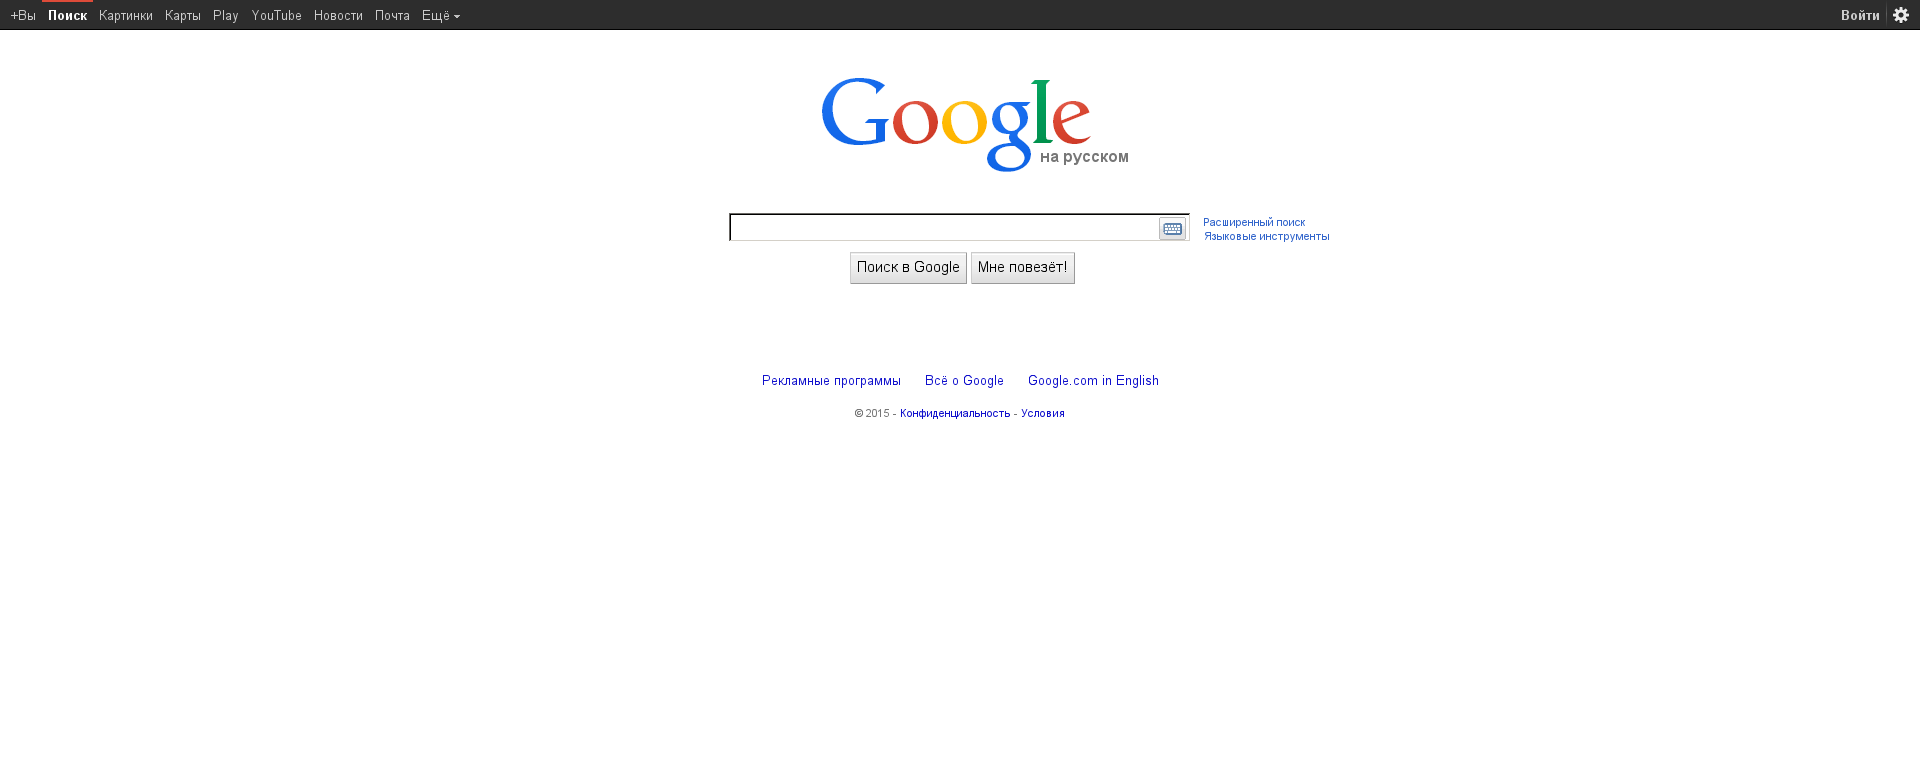
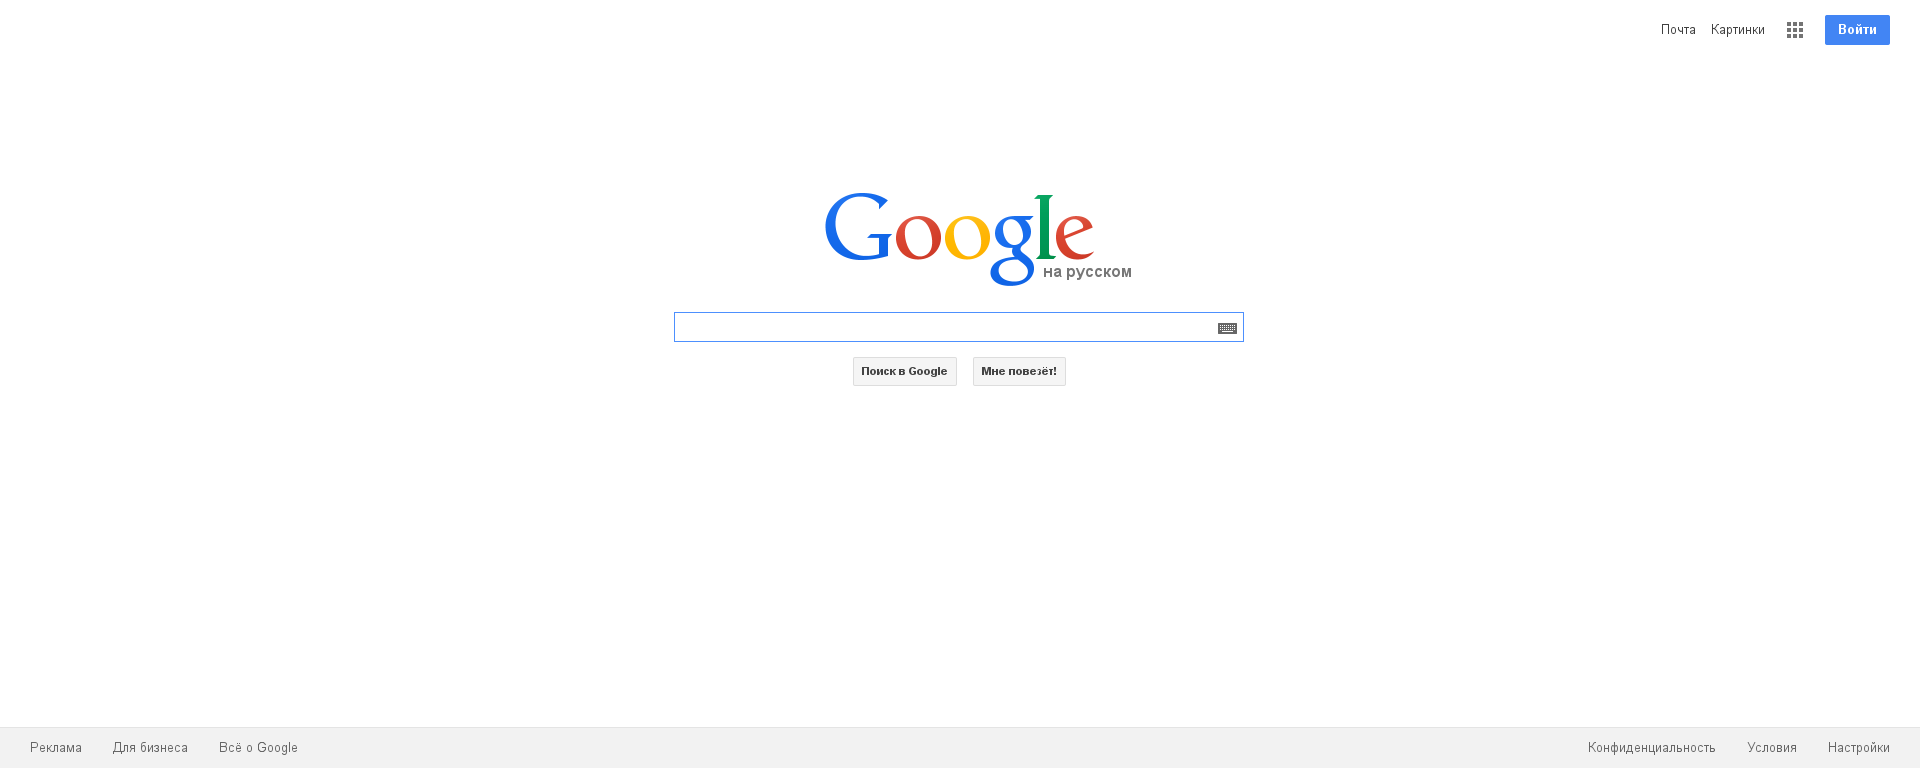
:rocket: fake useragent

diff --git a/selenium_base.py b/selenium_base.py
@@ -20,7 +20,8 @@ def vdisplay_test_browser(Browser, url, res, save_as, param):
 
 def no_vdisplay_test_browser(Browser, url, res, save_as, param):
     """ create rowser and save img """
-    browser = Browser(**param) if isinstance(param, dict) else Browser(param)
+    path, kwargs = param
+    browser = Browser(path, **kwargs)
     save_shot(url, res, browser, save_as)
     browser.quit()
 
@@ -46,17 +47,14 @@ def selenium_test_browser(name):
         # bin = dict(executable_path='bin/awesomium_v1.7.5_sdk_linux64/bin/awesomium_process')
         # test_browser(driver, name, bin, no_vdisplay_test_browser)
 
-    elif name == 'phantomjs':
+    elif 'phantomjs' in name:
+        from selenium.webdriver.common.desired_capabilities import DesiredCapabilities
+        dcap = dict(DesiredCapabilities.PHANTOMJS)
+        dcap['phantomjs.page.settings.userAgent'] = ('Mozilla/5.0 (X11; Linux x86_64) Gecko/20100101 Firefox/36.0')
+        param = dict(desired_capabilities=dcap)
         driver = webdriver.PhantomJS
-        path = 'bin/phantomjs-1.9.8-linux-x86_64/bin/phantomjs'
-        test_browser(driver, name, path, no_vdisplay_test_browser)
-
-    elif name == 'phantomjs2':
-        driver = webdriver.PhantomJS
-        path = 'bin/phantomjs-2.0.0/bin/phantomjs'
-        test_browser(driver, name, path, no_vdisplay_test_browser)
-
-    elif name == 'slimerjs':
-        driver = webdriver.Remote
-        param = dict(command_executor='http://localhost:9000', desired_capabilities=dict(takeScreenshot=True, javascriptEnabled=True))
-        test_browser(driver, name, param, no_vdisplay_test_browser)
+        if name == 'phantomjs':
+            path = 'bin/phantomjs-1.9.8-linux-x86_64/bin/phantomjs'
+        elif name == 'phantomjs2':
+            path = 'bin/phantomjs-2.0.0/bin/phantomjs'
+        test_browser(driver, name, (path, param), no_vdisplay_test_browser)

diff --git a/slimerjs_base.py b/slimerjs_base.py
@@ -8,6 +8,7 @@ script_path = 'slimer_screen.js'
 def make_param(url, res, save_as):
     script_template = '''
         var page = require('webpage').create();
+        page.settings.userAgent = 'Mozilla/5.0 (X11; Linux x86_64) Gecko/20100101 Firefox/36.0';
         page.open('%s', function (status) {
             page.viewportSize = { width:%s, height:768 };
             page.render('%s');
